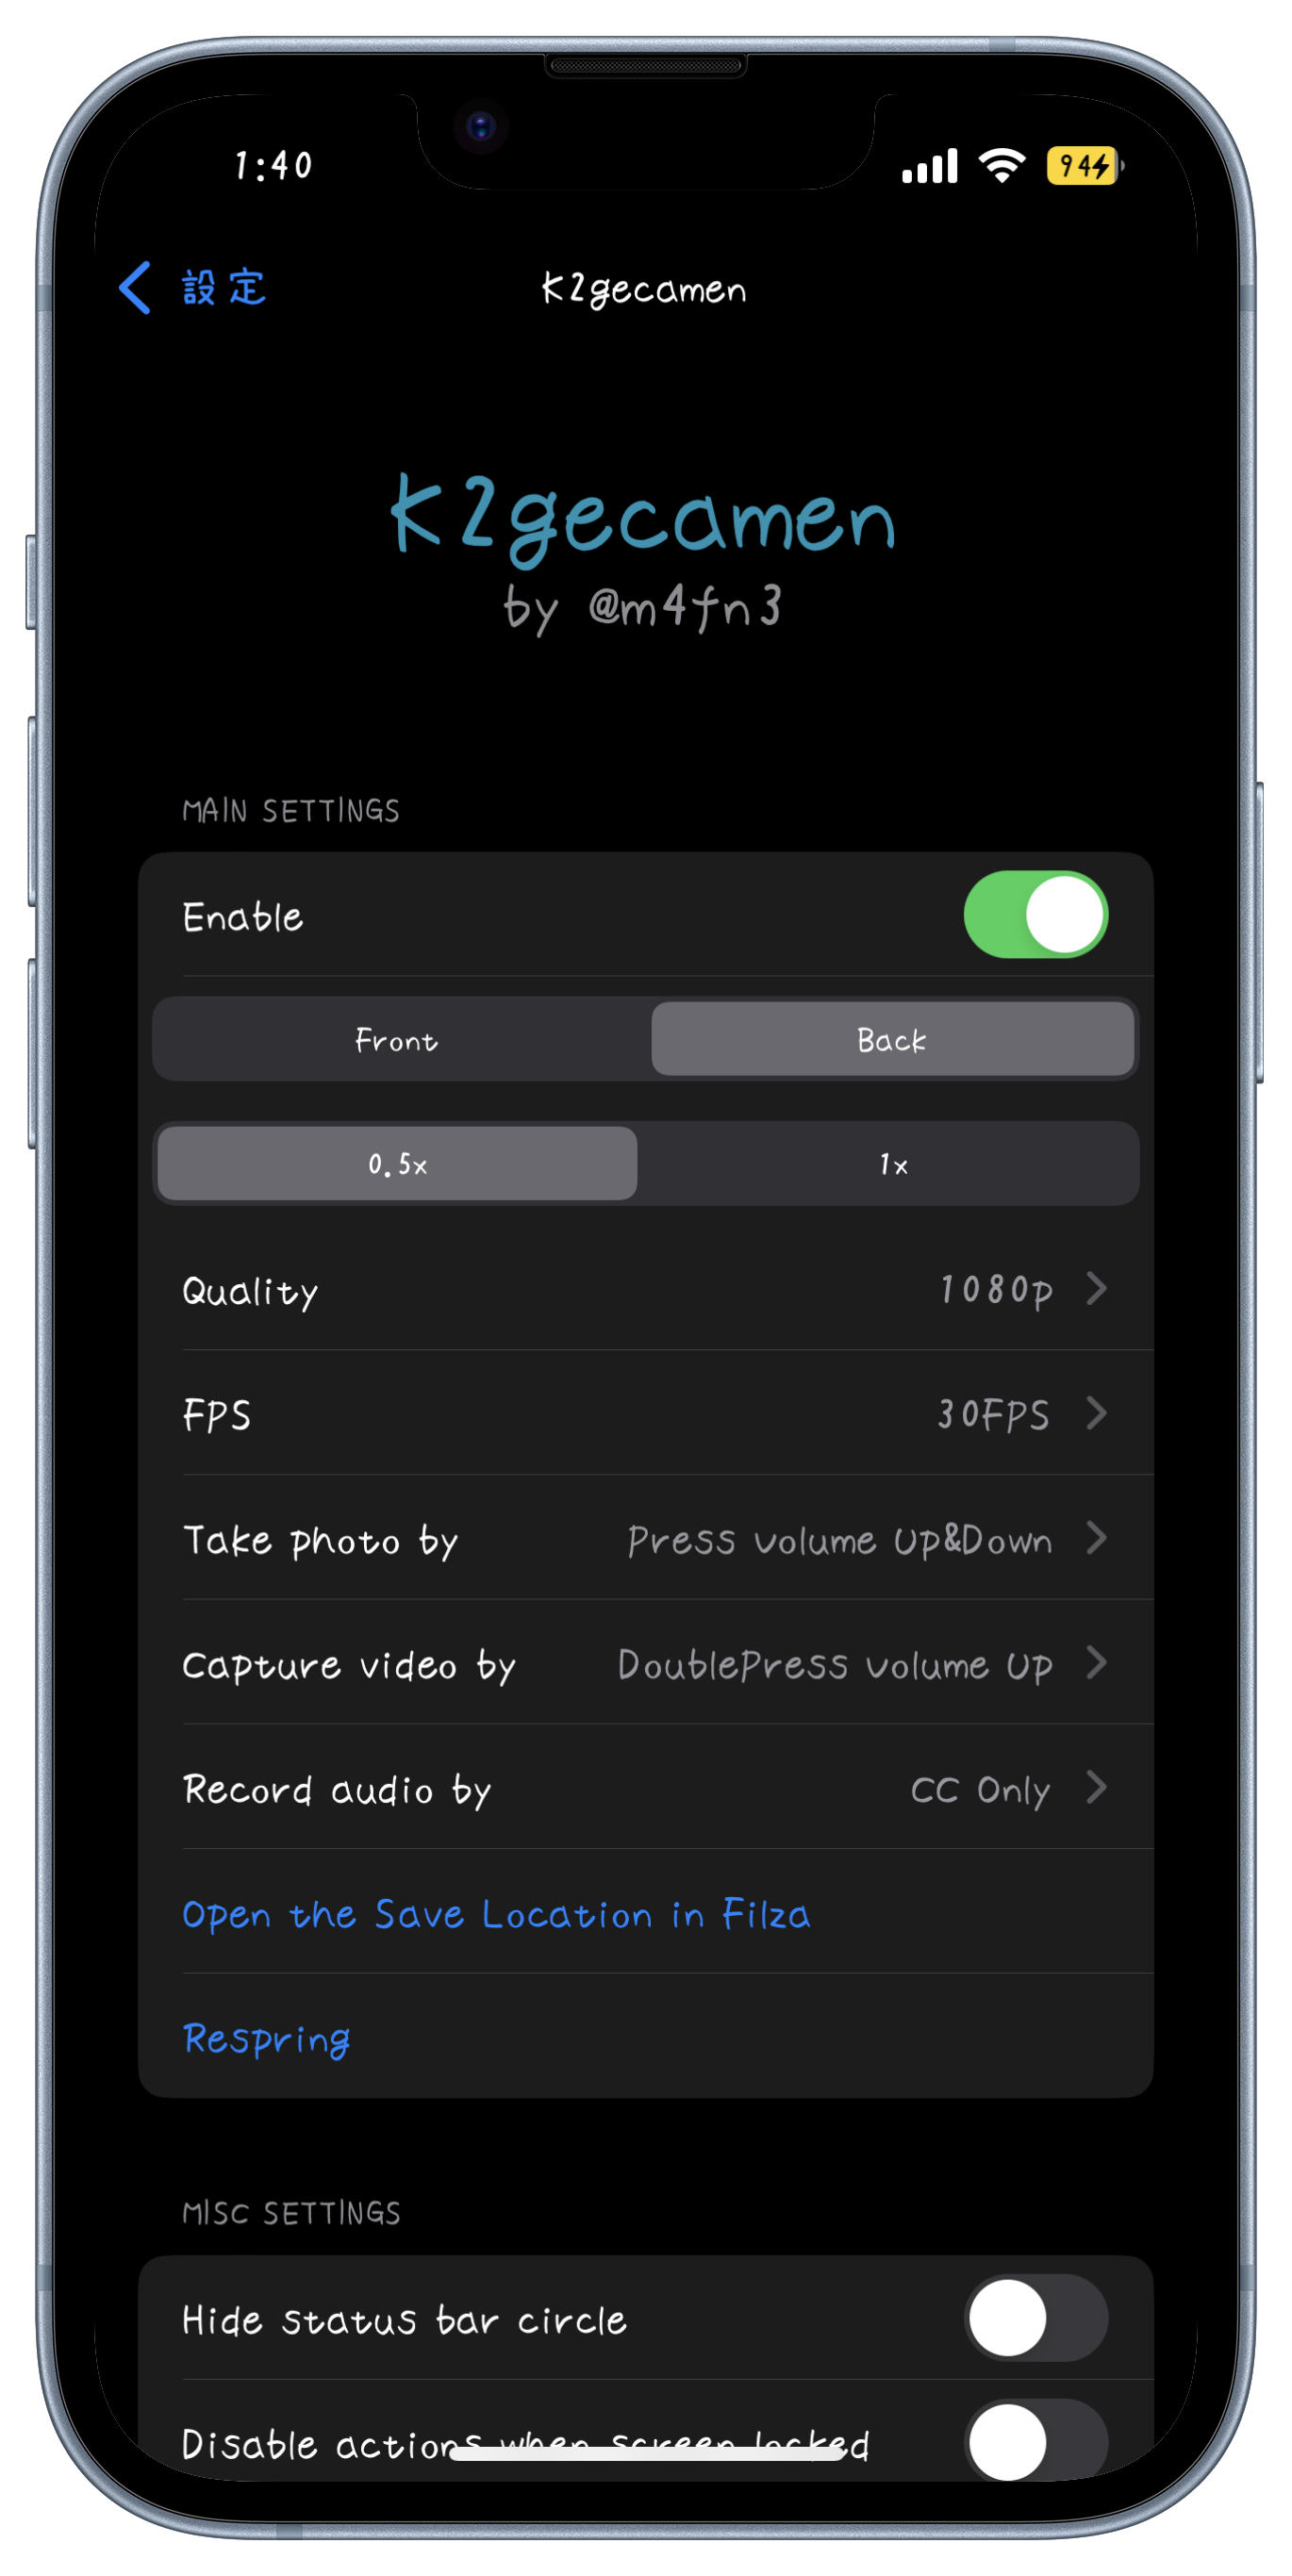
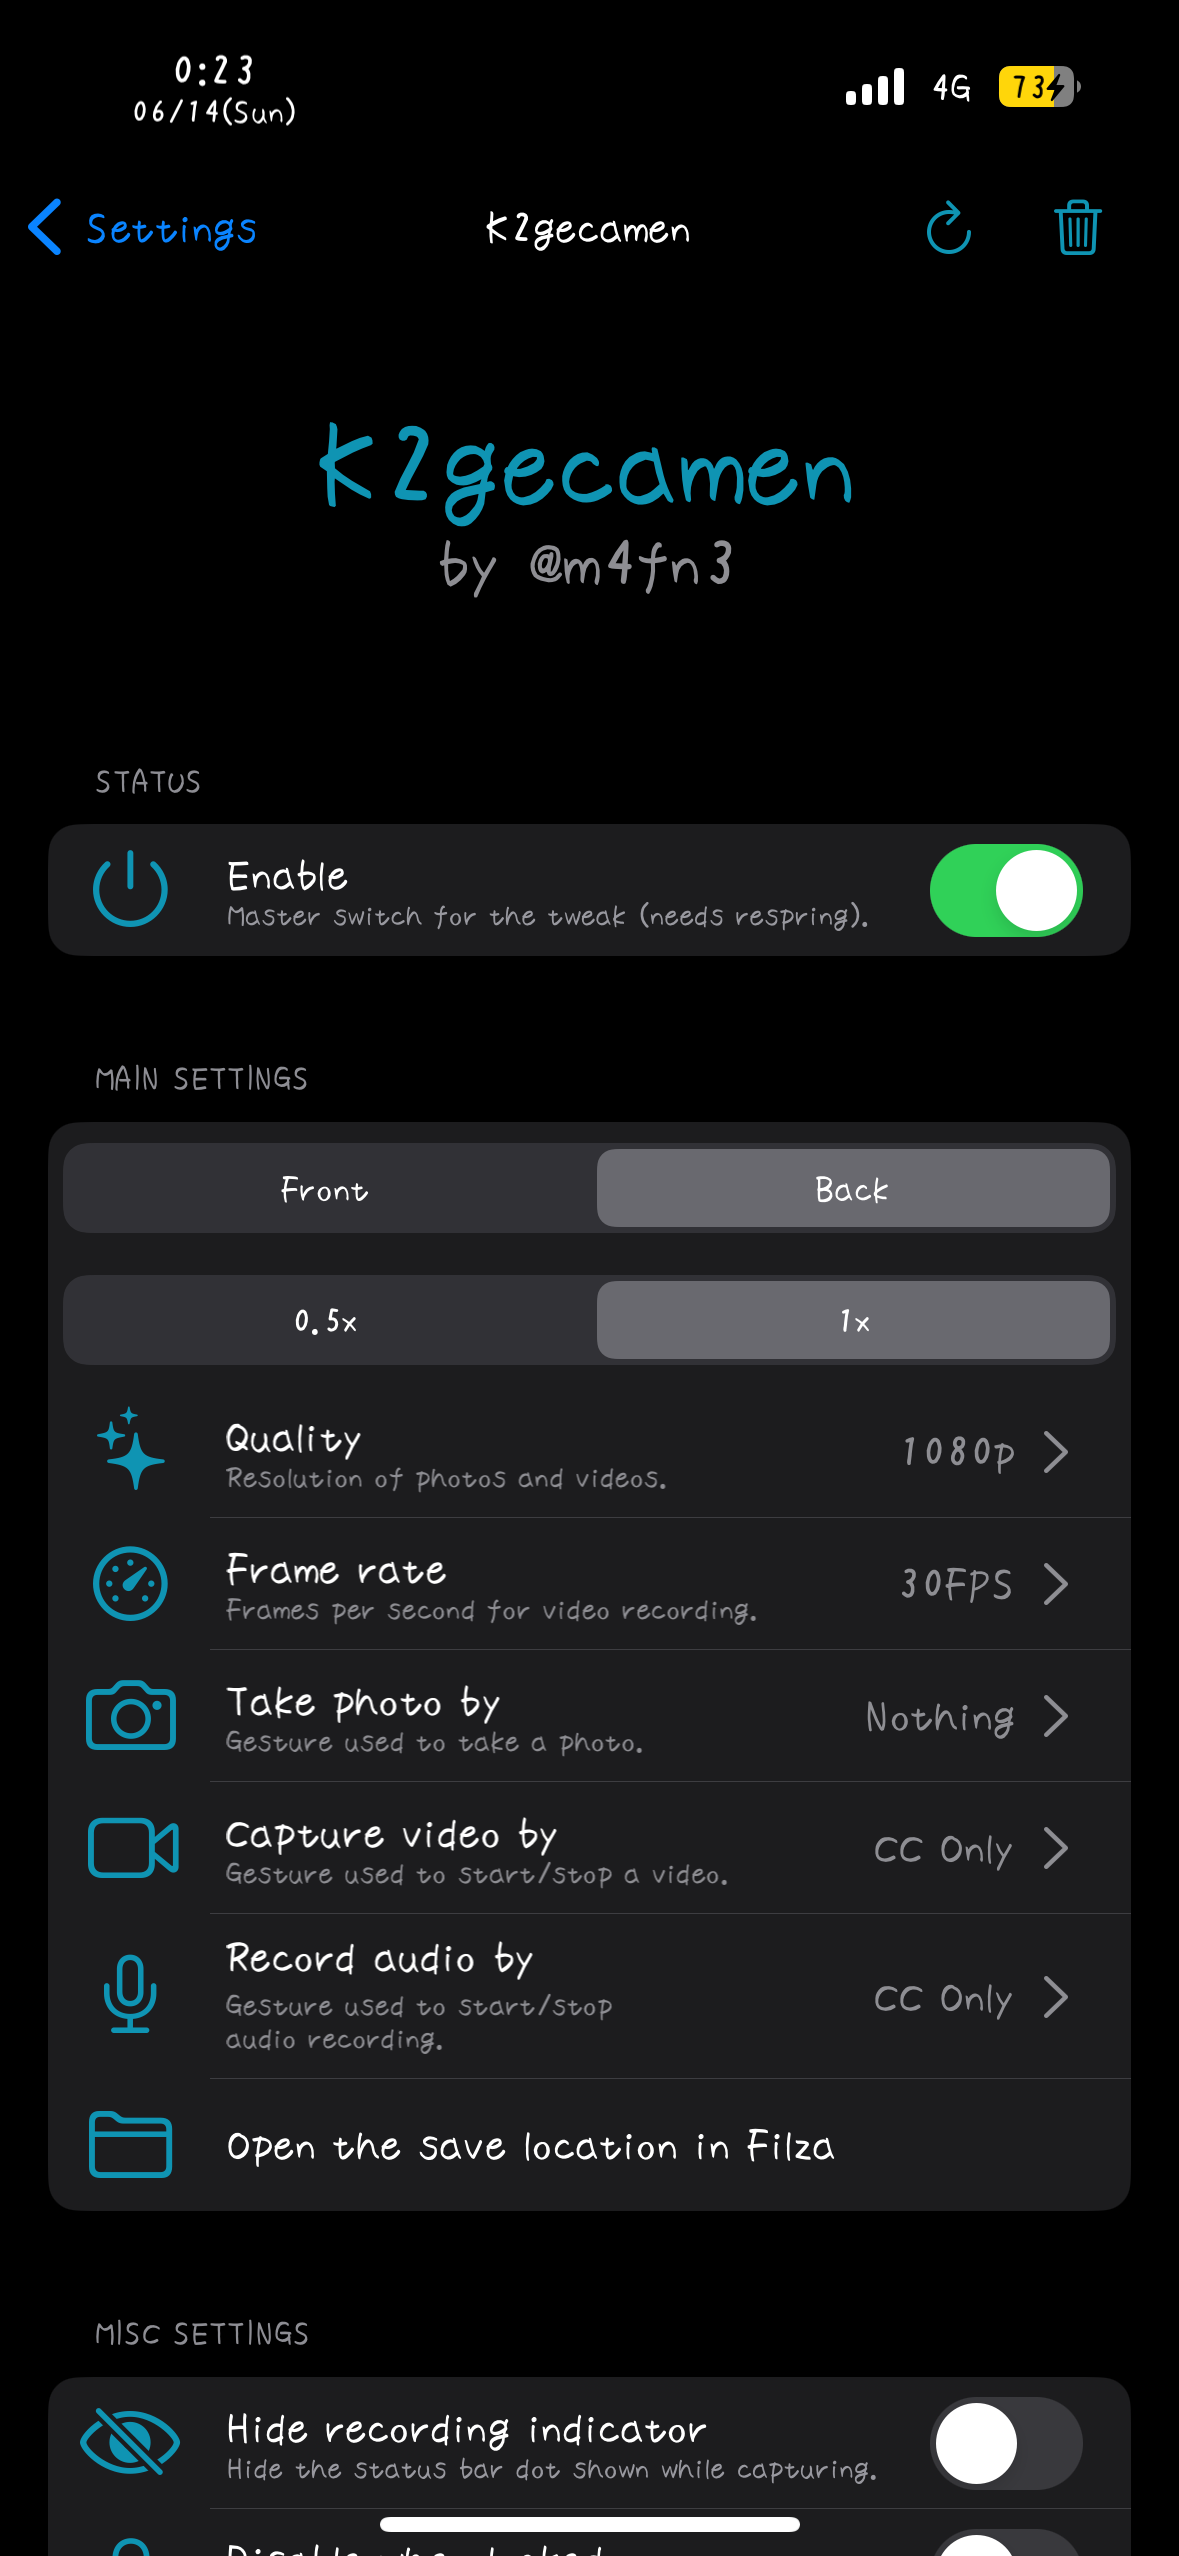
release: K2gecamen v1.1.0

diff --git a/web/K2gecamen.html b/web/K2gecamen.html
@@ -103,6 +103,11 @@
             <p>
                 K2gecamen has a feature to hide green/yellow circle during capturing video or recording audio.
             </p>
+            <h2>Record during music &amp; calls</h2>
+            <p>
+                K2gecamen can capture audio and video without interrupting the music you are listening to or the call you are on.<br>
+                This is enabled by default and keeps your background audio and speaker volume untouched while recording.
+            </p>
             <h2>More customize options..!</h2>
             <p>
                 K2gecamen has a feature to select the location to save the files, and also to set the filename of the output files.<br>
@@ -127,6 +132,10 @@
                 v1.0.5: Added a new action: Longpress power button / Fixed a bug that taking a screen shot triggers double press actions<br>
                         Improved status handlings / Play haptic feedbacks when it failed or got interrupted<br>
                         Changed haptic of starting and stoping capturing to a more noticable ones<br>
+                v1.1.0: Added an option to record audio/video while music is playing or during a call without interrupting them (enabled by default)<br>
+                        Fixed a blue color cast on photos and the first seconds of videos by waiting for auto white balance to settle<br>
+                        Localized the settings into English / Japanese / Simplified Chinese and refreshed the settings UI (SF Symbols, reset button)<br>
+                        Added roothide support and fixed the Up+Down action<br>
             </p>
         </div>
     </div>